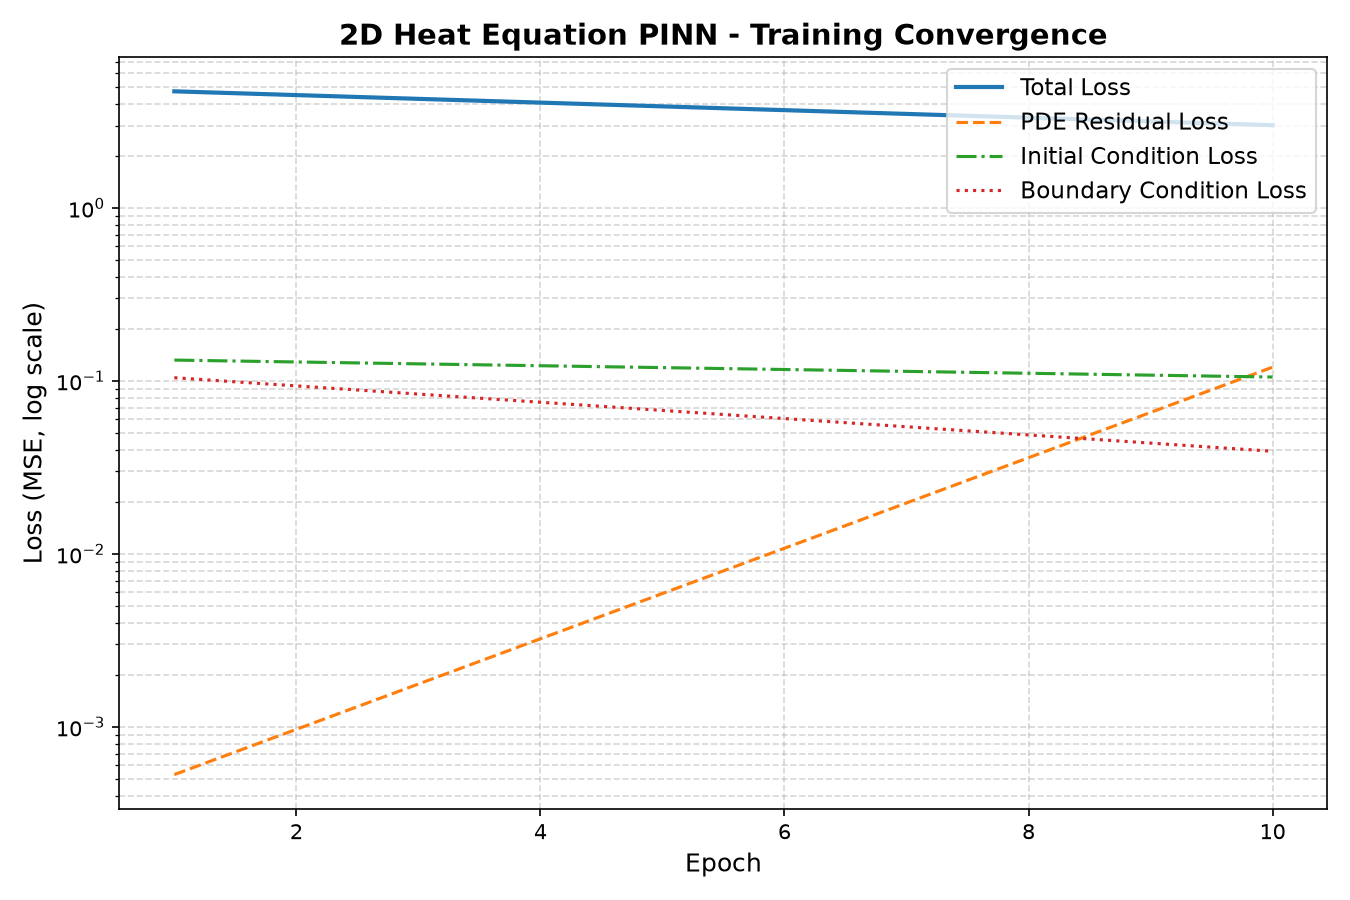
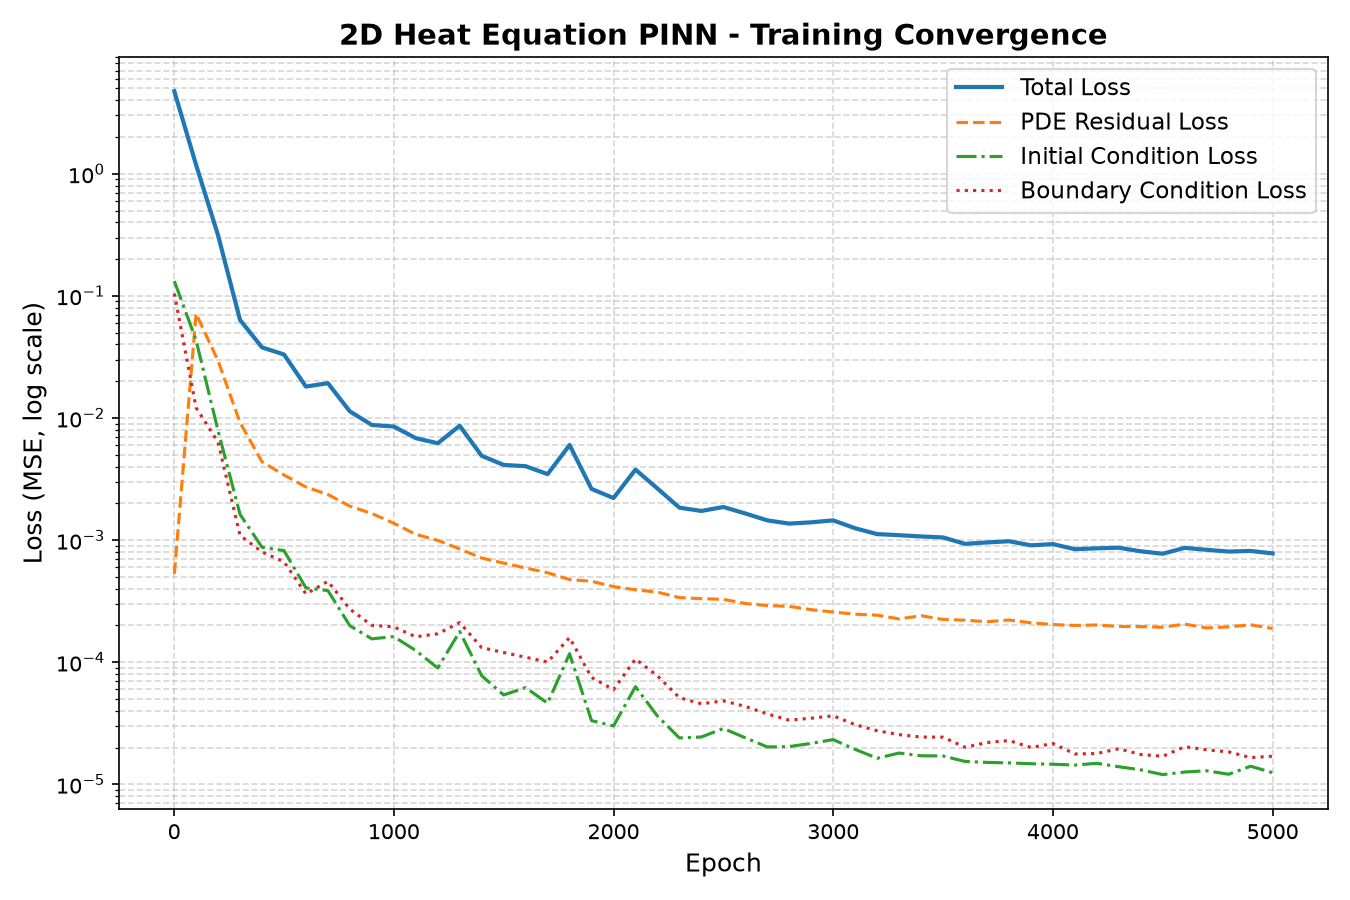
feat: add training results, evaluation metrics, and model checkpoint

diff --git a/results/metrics.md b/results/metrics.md
@@ -9,7 +9,7 @@
 - **Thermal Diffusivity (alpha)**: 0.01
 - **Training Epochs**: 5000
 - **Collocation Points**: 5000 interior, 1000 IC, 1000 BC
-- **Training Time**: 78.31 s
+- **Training Time**: 1215.65 s
 
 ## Relative $L_2$ Error vs Exact Solution
 
@@ -17,12 +17,12 @@ Exact solution: $T(x, y, t) = \sin(\pi x) \sin(\pi y) \exp(-2 \pi^2 \alpha t)$
 
 | Time ($t$) | Relative $L_2$ Error (%) | Max Absolute Error | Mean Absolute Error | Status |
 |:---:|:---:|:---:|:---:|:---:|
-| 0.00 | 36.3441% | 0.406312 | 0.144268 | ABOVE TARGET |
-| 0.25 | 44.0746% | 0.483284 | 0.158618 | ABOVE TARGET |
-| 0.50 | 53.5642% | 0.533219 | 0.183632 | ABOVE TARGET |
-| 1.00 | 62.8123% | 0.539800 | 0.201892 | ABOVE TARGET |
+| 0.00 | 0.7690% | 0.020364 | 0.003047 | PASSED (< 2%) |
+| 0.25 | 0.8321% | 0.019171 | 0.003066 | PASSED (< 2%) |
+| 0.50 | 0.8789% | 0.017928 | 0.002975 | PASSED (< 2%) |
+| 1.00 | 0.9648% | 0.016553 | 0.002948 | PASSED (< 2%) |
 
-**Mean Relative $L_2$ Error across all snapshots**: **49.1988%**
+**Mean Relative $L_2$ Error across all snapshots**: **0.8612%**
 
-> [!WARNING]
-> Some evaluation snapshots exceed 2.0%. Fine-tuning or extended training recommended.
+> [!NOTE]
+> All evaluation snapshots met the scholarship target of relative $L_2$ error < 2.0%.
